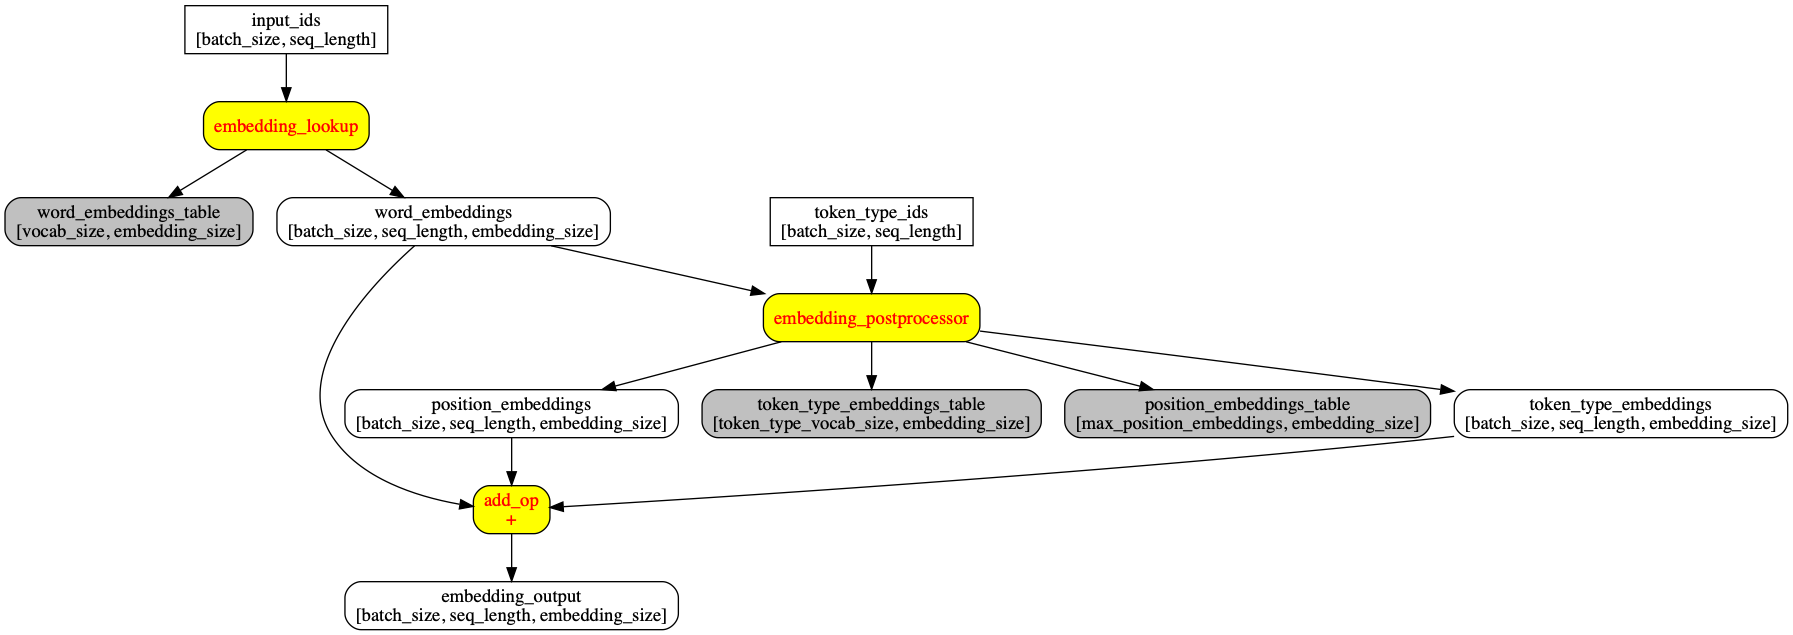
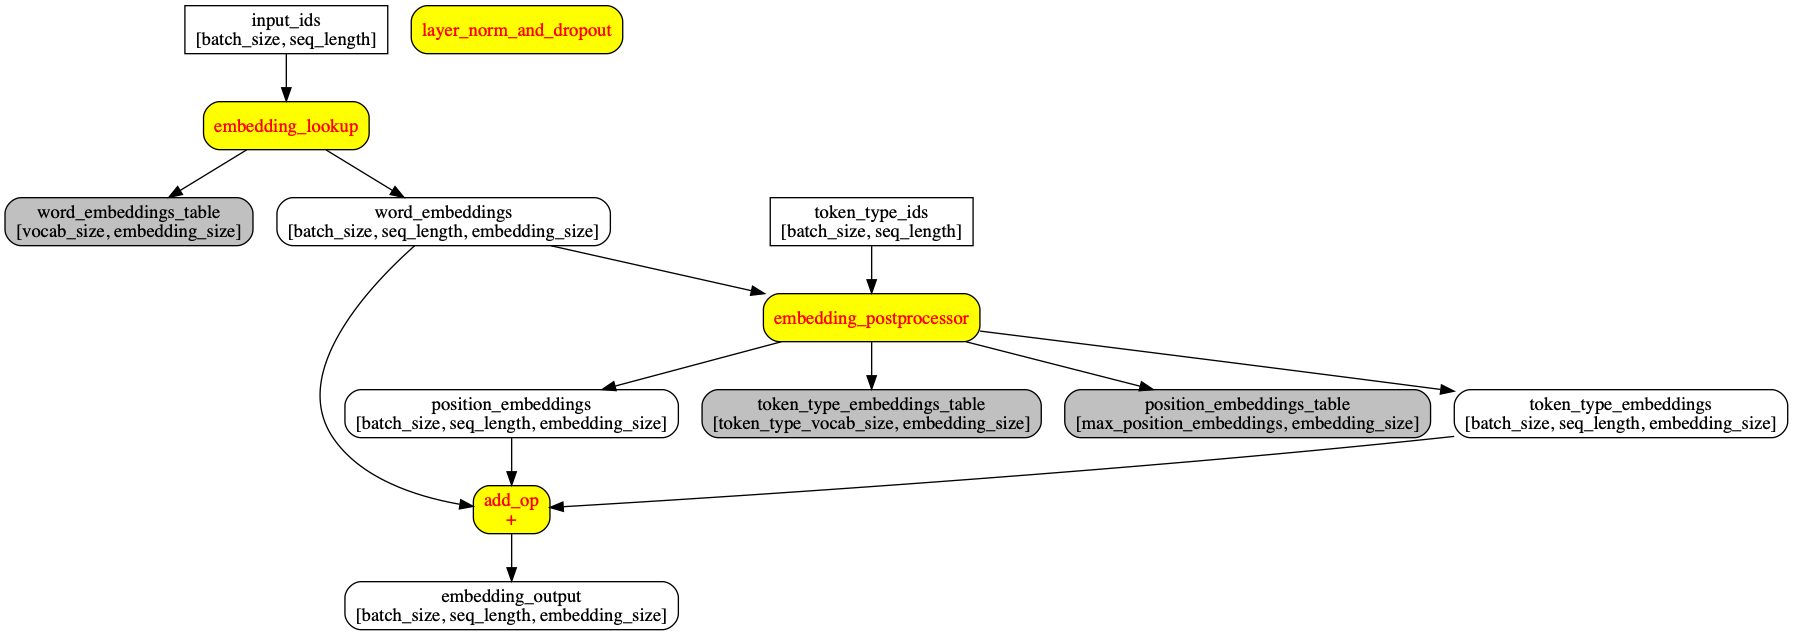
xx

Changed region(s): [[0.2186, 0.0, 0.3748, 0.0898]]

diff --git a/gen_dot.py b/gen_dot.py
@@ -155,6 +155,7 @@ def gen_bert_flow():
     dot.node('embedding_lookup', u'embedding_lookup', shape="box", style="rounded,filled", fillcolor="yellow", fontcolor="red")
     dot.node('embedding_postprocessor', u'embedding_postprocessor', shape="box", style="rounded,filled", fillcolor="yellow", fontcolor="red")
     dot.node('add_op', u'add_op\n+', shape="box", style="rounded,filled", fillcolor="yellow", fontcolor="red")
+    dot.node('layer_norm_and_dropout', u'layer_norm_and_dropout', shape="box", style="rounded,filled", fillcolor="yellow", fontcolor="red")
 
 
     dot.node('word_embeddings', u'word_embeddings\n[batch_size, seq_length, embedding_size]', shape="box", style="rounded")
